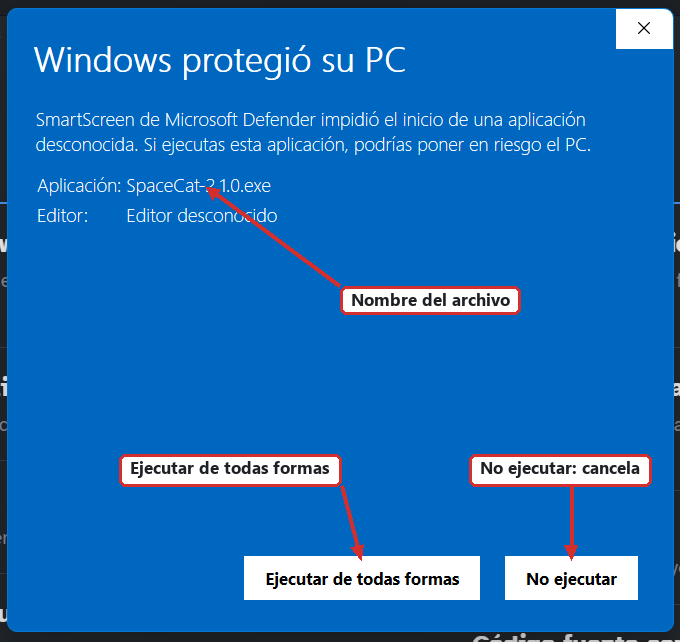
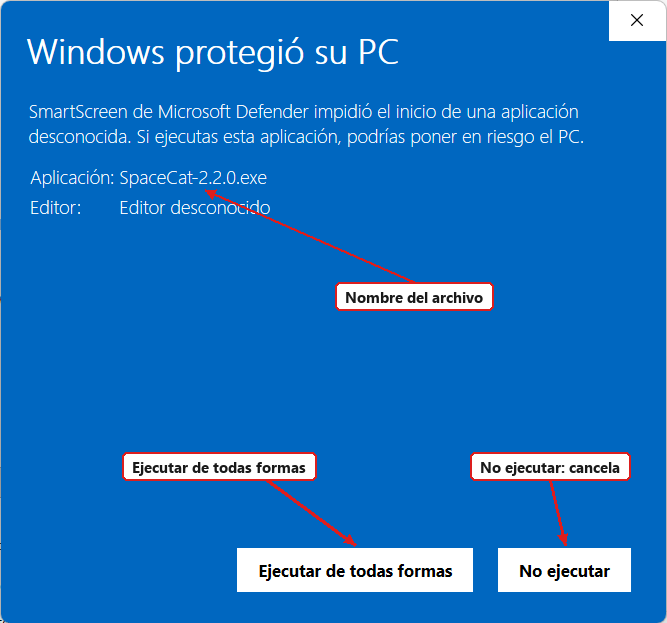
Capturas 2.2.0: aviso de Windows y Acerca de; notas de figura con la versión del pom

Changed region(s): [[0.0, 0.0, 1.0, 1.0], [0.1499, 0.7014, 0.5097, 0.8234], [0.4798, 0.3965, 0.7796, 0.5185]]

diff --git a/documentacion/herramientas/generar.js b/documentacion/herramientas/generar.js
@@ -213,7 +213,7 @@ function makeConverter(opts) {
     if (listing) {
       body.push(new Paragraph({ spacing: { after: 240, line: lineSpacing }, children: [
         new TextRun({ text: 'Nota.', italics: true, font: FONT }),
-        new TextRun({ text: ' Fragmento del código fuente de Space Cat 2.1.0. El número de la izquierda es el número de línea'
+        new TextRun({ text: ` Fragmento del código fuente de Space Cat ${APP_VERSION}. El número de la izquierda es el número de línea`
           + ' dentro del archivo indicado en el título. Elaboración propia.', font: FONT })] }));
     }
   }
@@ -328,11 +328,12 @@ try { ESTADO = JSON.parse(fs.readFileSync(path.join(__dirname, '..', 'capturas',
 const FECHA_CAPTURAS = ESTADO._fecha || null;
 function notaCaptura(href) {
   const e = ESTADO[path.basename(href)];
-  const f = FECHA_CAPTURAS ? fechaLarga(FECHA_CAPTURAS) : null;
-  if (e === 'igual') return ` Captura de pantalla de Space Cat 2.1.0, sin cambios respecto a la versión anterior; revisada el ${f}. Elaboración propia.`;
-  if (e === 'nueva') return ` Captura de pantalla de Space Cat 2.1.0 (función nueva), tomada el ${f}. Elaboración propia.`;
-  if (e === 'actualizada') return ` Captura de pantalla de Space Cat 2.1.0, actualizada el ${f}. Elaboración propia.`;
-  return ' Captura de pantalla de Space Cat 2.1.0. Elaboración propia.';
+  const fd = (ESTADO._fechas || {})[path.basename(href)] || FECHA_CAPTURAS;
+  const f = fd ? fechaLarga(fd) : null;
+  if (e === 'igual') return ` Captura de pantalla de Space Cat ${APP_VERSION}, sin cambios respecto a la versión anterior; revisada el ${f}. Elaboración propia.`;
+  if (e === 'nueva') return ` Captura de pantalla de Space Cat ${APP_VERSION} (función nueva), tomada el ${f}. Elaboración propia.`;
+  if (e === 'actualizada') return ` Captura de pantalla de Space Cat ${APP_VERSION}, actualizada el ${f}. Elaboración propia.`;
+  return ` Captura de pantalla de Space Cat ${APP_VERSION}. Elaboración propia.`;
 }
 
 function cover(info) {
